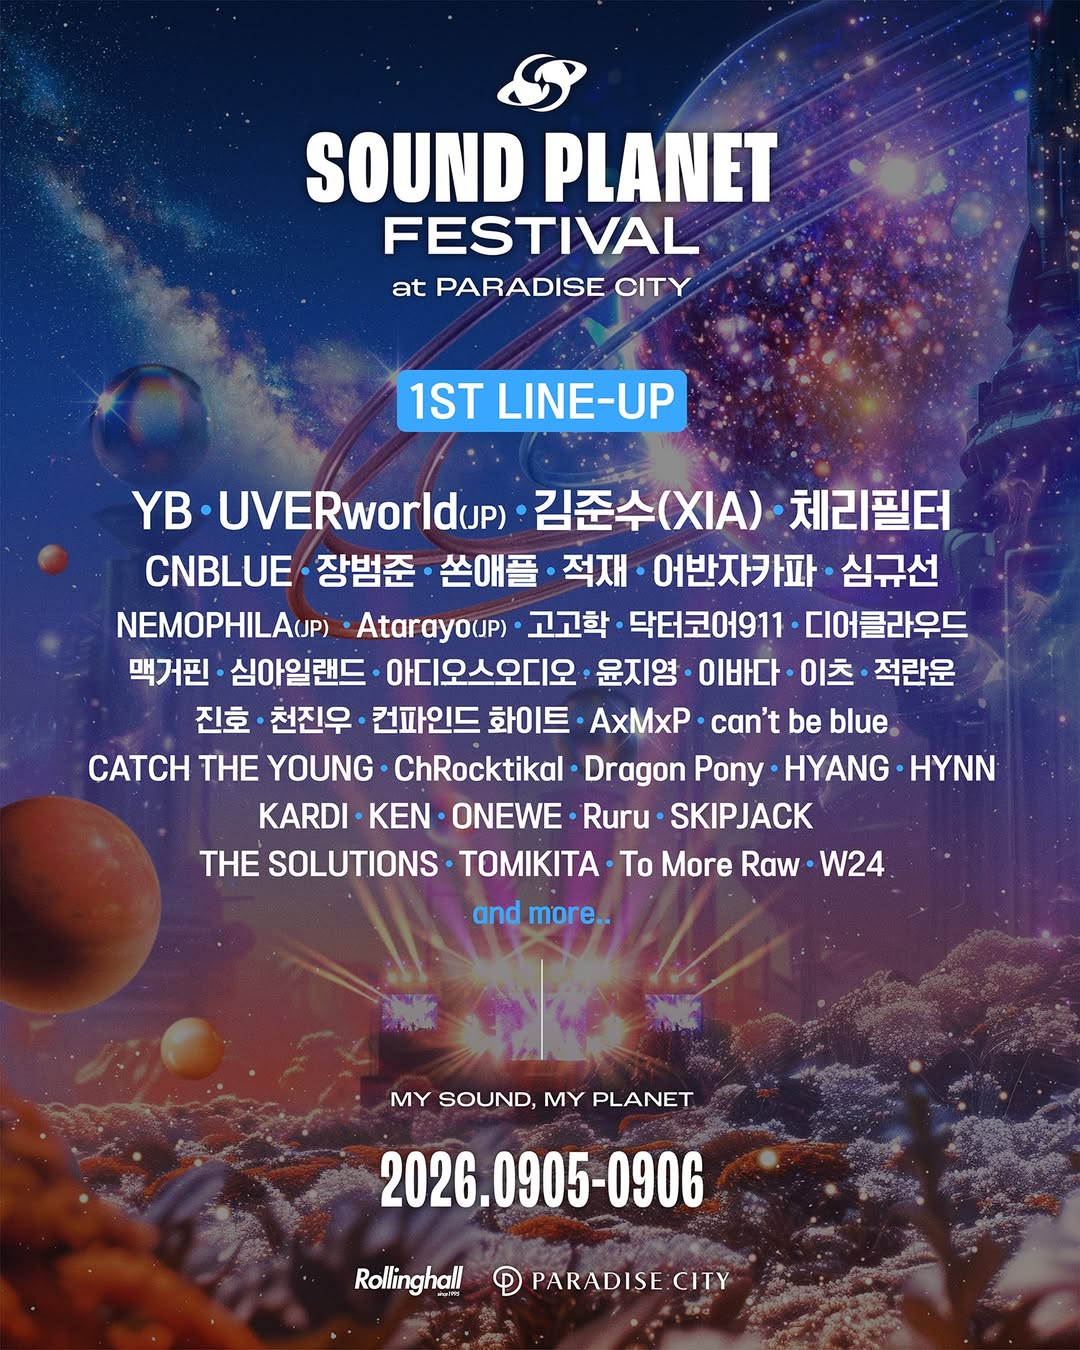
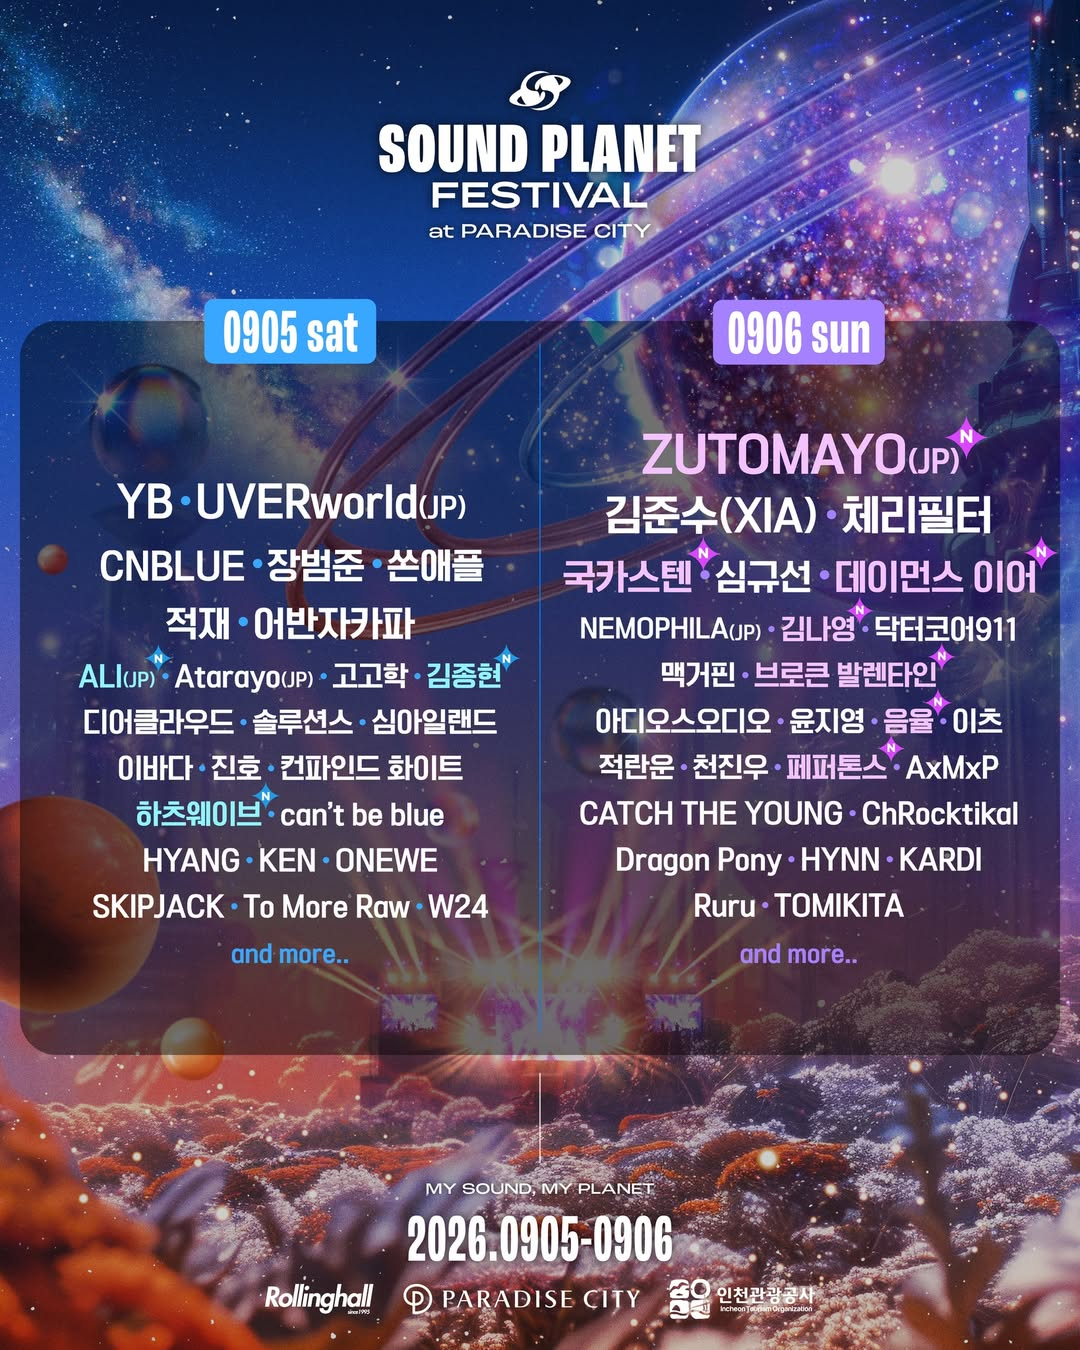
Update schedule

diff --git a/src/data/schedule.ts b/src/data/schedule.ts
@@ -4110,8 +4110,21 @@ const data_2026: Schedule[] = [
     title: "피크 페스티벌",
     imageA: "202605-peak-a.jpg",
     location: ["난지한강공원"],
-    setlist: [],
-    links: [I.FNotice("https://www.instagram.com/p/DVpILBDk25f/")],
+    setlist: [
+      S.spring,
+      S.noon,
+      S.pomegranate,
+      S.flesh,
+      S.february,
+      S.lion,
+      S.extinction,
+      S.peter,
+    ],
+    links: [
+      I.FNotice("https://www.instagram.com/p/DVpILBDk25f/"),
+      I.Photo("https://www.instagram.com/p/DYrxLAtjyWF"),
+      I.Vid("https://www.instagram.com/p/DYr0TawvzpA/"),
+    ],
   },
   {
     year: 2026,
@@ -4161,30 +4174,8 @@ const data_2026: Schedule[] = [
     imageA: "202608-penta-a.jpg",
     location: ["송도 달빛축제공원"],
     setlist: [],
-    links: [I.FNotice("https://www.instagram.com/p/DYD_UwHmceK")],
-    etc: [{ subtitle: "-", text: [I.DU] }],
-  },
-  {
-    year: 2026,
-    month: 8,
-    date: 1,
-    title: "펜타포트 락 페스티벌",
-    imageA: "202608-penta-a.jpg",
-    location: ["송도 달빛축제공원"],
-    setlist: [],
-    links: [I.FNotice("https://www.instagram.com/p/DYD_UwHmceK")],
-    etc: [{ subtitle: "-", text: [I.DU] }],
-  },
-  {
-    year: 2026,
-    month: 8,
-    date: 2,
-    title: "펜타포트 락 페스티벌",
-    imageA: "202608-penta-a.jpg",
-    location: ["송도 달빛축제공원"],
-    setlist: [],
-    links: [I.FNotice("https://www.instagram.com/p/DYD_UwHmceK")],
-    etc: [{ subtitle: "-", text: [I.DU] }],
+    links: [I.FNotice("https://www.instagram.com/p/DYTZ5RFmTD5")],
+    etc: [],
   },
   {
     year: 2026,